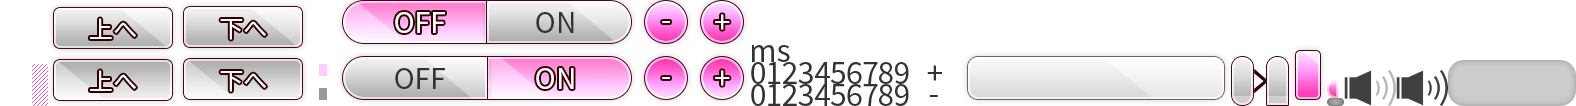
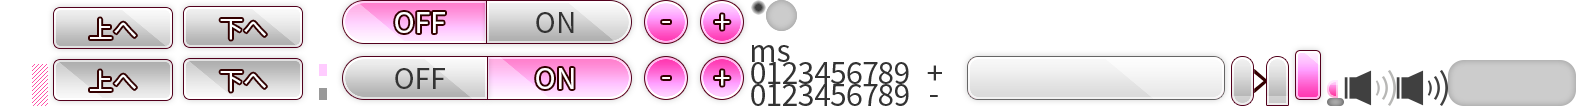
Play options WIP

Changed region(s): [[0.4664, 0.0, 0.5286, 0.283]]

diff --git a/assets/themes/Default/scripts/select/PlayOptions.qml b/assets/themes/Default/scripts/select/PlayOptions.qml
@@ -1,5 +1,6 @@
 import RhythmGameQml
 import QtQuick
+import QtQuick.Controls.Basic
 
 Rectangle {
     id: bg
@@ -7,5 +8,59 @@ Rectangle {
     color: "white"
     radius: 32
 
+    scale: 0
 
+    width: 1600
+    height: 900
+
+    Component {
+        id: delegateComponent
+
+        Text {
+            text: modelData
+            horizontalAlignment: Text.AlignHCenter
+            verticalAlignment: Text.AlignVCenter
+            font.pixelSize: 32
+
+            color: index === Tumbler.tumbler.currentIndex ? "white" : "black"
+        }
+    }
+
+
+    TumblerFrame {
+        width: 360
+        height: 220
+
+        DarkHighlightLabel {
+            width: parent.width
+            height: 40
+
+            anchors.centerIn: parent
+        }
+        Tumbler {
+            id: randoms
+            model: ["NORMAL", "MIRROR", "SPIRAL", "RANDOM", "S-RANDOM", "H-RANDOM", "R-RANDOM", "R-RANDOM"]
+            delegate: delegateComponent
+            wrap: true
+            visibleItemCount: 5
+
+            anchors.fill: parent
+        }
+    }
+
+    states: State {
+        name: "shown"; when: InputTranslator.start
+        PropertyChanges {
+            target: bg
+            scale: 1
+        }
+    }
+
+    transitions: Transition {
+        NumberAnimation {
+            properties: "scale"
+            easing.type: Easing.InOutQuad
+            duration: 150
+        }
+    }
 }

diff --git a/assets/themes/Default/scripts/select/SongWheel.qml b/assets/themes/Default/scripts/select/SongWheel.qml
@@ -81,34 +81,8 @@ FocusScope {
             width: 1920
 
             PlayOptions {
-                id: playOptions
-
-                scale: 0
-
-                width: 1600
-                height: 900
                 anchors.centerIn: parent
                 z: 3
-
-                Component.onCompleted: {
-                    print(InputTranslator.start)
-                }
-
-                states: State {
-                    name: "shown"; when: InputTranslator.start
-                    PropertyChanges {
-                        target: playOptions
-                        scale: 1
-                    }
-                }
-
-                transitions: Transition {
-                    NumberAnimation {
-                        properties: "scale"
-                        easing.type: Easing.InOutQuad
-                        duration: 100
-                    }
-                }
             }
 
             RowLayout {

diff --git a/assets/themes/Default/scripts/select/TumblerFrame.qml b/assets/themes/Default/scripts/select/TumblerFrame.qml
@@ -1,0 +1,12 @@
+import QtQuick
+
+BorderImage {
+    source: root.iniImagesUrl + "option.png/tumbler_frame"
+
+    border {
+        left: 15
+        right: 15
+        top: 15
+        bottom: 15
+    }
+}

diff --git a/assets/themes/Default/scripts/select/DarkHighlightLabel.qml b/assets/themes/Default/scripts/select/DarkHighlightLabel.qml
@@ -1,0 +1,12 @@
+import QtQuick
+
+BorderImage {
+    source: root.iniImagesUrl + "option.png/dark_highlight"
+
+    border {
+        left: 7
+        right: 7
+        top: 7
+        bottom: 7
+    }
+}

diff --git a/assets/themes/Default/scripts/select/DarkLabel.qml b/assets/themes/Default/scripts/select/DarkLabel.qml
@@ -1,0 +1,8 @@
+import QtQuick
+
+Rectangle {
+
+    color: "#404040"
+
+    radius: 15
+}
